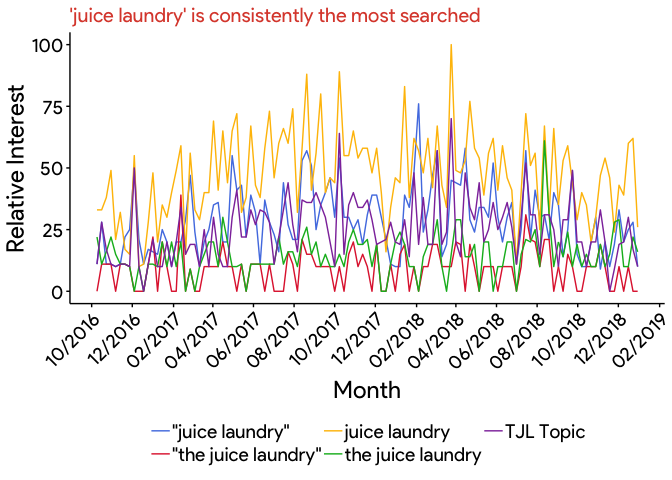
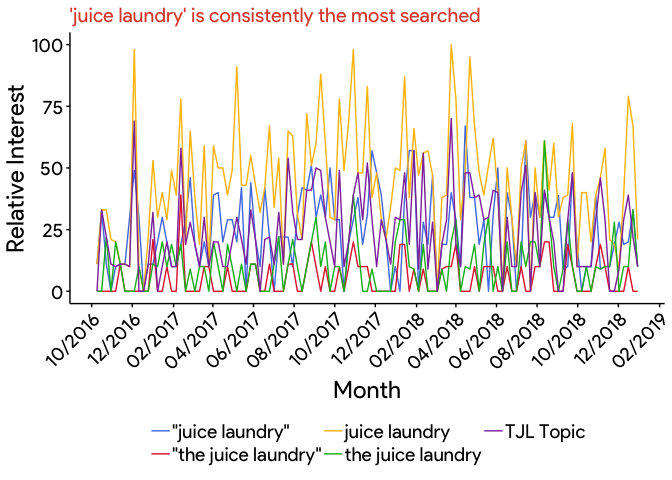
delete old md

Changed region(s): [[0.125, 0.0938, 0.9688, 0.625]]

diff --git a/R/google-trends-guide.md b/R/google-trends-guide.md
@@ -164,14 +164,14 @@ gtrends
     ## # A tibble: 585 x 3
     ##    week_of    search_term       relative_interest
     ##    <date>     <chr>                         <dbl>
-    ##  1 2016-10-09 the juice laundry                22
-    ##  2 2016-10-16 the juice laundry                11
-    ##  3 2016-10-23 the juice laundry                16
-    ##  4 2016-10-30 the juice laundry                22
-    ##  5 2016-11-06 the juice laundry                15
+    ##  1 2016-10-09 the juice laundry                 0
+    ##  2 2016-10-16 the juice laundry                 0
+    ##  3 2016-10-23 the juice laundry                22
+    ##  4 2016-10-30 the juice laundry                 0
+    ##  5 2016-11-06 the juice laundry                20
     ##  6 2016-11-13 the juice laundry                11
-    ##  7 2016-11-20 the juice laundry                11
-    ##  8 2016-11-27 the juice laundry                10
+    ##  7 2016-11-20 the juice laundry                 0
+    ##  8 2016-11-27 the juice laundry                 0
     ##  9 2016-12-04 the juice laundry                 0
     ## 10 2016-12-11 the juice laundry                10
     ## # … with 575 more rows
@@ -341,18 +341,18 @@ avg_trend
     ## # A tibble: 5 x 2
     ##   search_term             avg_interest
     ##   <chr>                          <dbl>
-    ## 1 "\"juice laundry\""               29
-    ## 2 "\"the juice laundry\""            9
-    ## 3 juice laundry                     47
-    ## 4 the juice laundry                 15
-    ## 5 TJL Topic                         25
+    ## 1 "\"juice laundry\""               25
+    ## 2 "\"the juice laundry\""            5
+    ## 3 juice laundry                     44
+    ## 4 the juice laundry                 10
+    ## 5 TJL Topic                         24
 
 Construct a draft for the bar graph. Remember that bar graphs with y variables specified must clarify that `stat = 'identity'`.
 
 ``` r
 bg <- ggplot(avg_trend, aes(x = search_term, y = avg_interest)) + 
   geom_bar(stat = 'identity') +
-  labs(x = NULL, y = 'Average Interest')
+  labs(x = 'Search Term', y = 'Average Interest')
 
 bg
 ```
